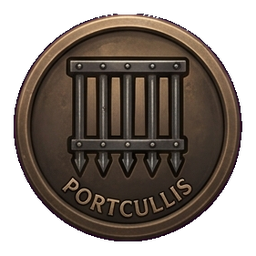
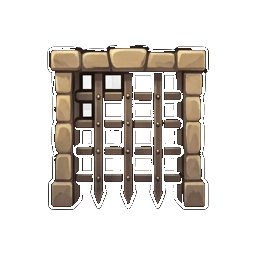
Refaz os ícones do minimapa (discretos, sem medalhão) + ícone de baú
- Fatia a nova folha de ícones em 16 marcadores discretos (sem o círculo/
  medalhão que deixava tudo ilegível) e sem os rótulos de texto: só o ícone,
  em fundo transparente.
- Adiciona o marcador "chest" (baú): a casa da Hedda passa a exibir um baú no
  mapa do vilarejo e no interior dela, indicando onde guardar itens.
- A escadaria vira o ícone do santuário e da saída em espiral; ícones um pouco
  maiores no mapa p/ compensar o recorte e ganhar legibilidade.

Claude-Session: https://claude.ai/code/session_013WvcxhCgG4YoQ53hJyUeUZ

diff --git a/grimhollow/src/game/controls.ts b/grimhollow/src/game/controls.ts
@@ -44,6 +44,8 @@ import mmPortal from "../assets/ui/minimap/mm_portal.png";
 import mmSanctuary from "../assets/ui/minimap/mm_sanctuary.png";
 import mmStatue from "../assets/ui/minimap/mm_statue.png";
 import mmSign from "../assets/ui/minimap/mm_sign.png";
+import mmChest from "../assets/ui/minimap/mm_chest.png";
+import mmStair from "../assets/ui/minimap/mm_stair.png";
 
 // ---- FORJA: efeitos sonoros (arquivos enviados pelo jogador) ----------------
 // Registrados no canal SFX do gerenciador de áudio (o volume efetivo respeita a
@@ -265,7 +267,7 @@ export interface TavernData {
 export type MiniPoiKind =
   | "smith" | "tavern" | "store" | "alchemist" | "npc"
   | "dungeon" | "forest" | "exit" | "home" | "well"
-  | "stair" | "gate" | "sanctuary" | "sign" | "portal" | "statue";
+  | "stair" | "gate" | "sanctuary" | "sign" | "portal" | "statue" | "chest";
 export interface MiniPoi { c: number; r: number; kind: MiniPoiKind; label: string; }
 
 export interface MinimapState {
@@ -284,7 +286,8 @@ export interface MinimapState {
 const POI_SRC: Record<MiniPoiKind, string> = {
   smith: mmSmith, tavern: mmTavern, store: mmStore, alchemist: mmAlchemist, npc: mmNpc,
   dungeon: mmEntrance, forest: mmForest, exit: mmExit, home: mmHome, well: mmWell,
-  stair: mmExit, gate: mmGate, sanctuary: mmSanctuary, sign: mmSign, portal: mmPortal, statue: mmStatue,
+  stair: mmStair, gate: mmGate, sanctuary: mmSanctuary, sign: mmSign, portal: mmPortal, statue: mmStatue,
+  chest: mmChest,
 };
 // pré-carrega os medalhões (uma vez) p/ desenhar no canvas
 const POI_IMG: Partial<Record<MiniPoiKind, HTMLImageElement>> = {};
@@ -295,9 +298,10 @@ const POI_COLOR: Record<MiniPoiKind, string> = {
   smith: "#ff9a4d", tavern: "#ffcf5a", store: "#6fd3ff", alchemist: "#b98cff", npc: "#8fe07a",
   dungeon: "#ff6b5a", forest: "#7fd06a", exit: "#ffd964", home: "#d8b06a", well: "#6fb8ff",
   stair: "#ffd964", gate: "#ff8a5a", sanctuary: "#c79bff", sign: "#e8dcc0", portal: "#8fb8ff", statue: "#f0e2b8",
+  chest: "#e6b45a",
 };
 // marcadores que "pulsam" (interativos: valem uma visita)
-const POI_PULSE = new Set<MiniPoiKind>(["smith", "tavern", "store", "alchemist", "dungeon", "forest", "exit", "gate", "sanctuary", "npc", "portal", "statue", "stair"]);
+const POI_PULSE = new Set<MiniPoiKind>(["smith", "tavern", "store", "alchemist", "dungeon", "forest", "exit", "gate", "sanctuary", "npc", "portal", "statue", "stair", "chest"]);
 // marcadores "menores" (secundários): NPCs e casas comuns
 const miniMinor = (k: MiniPoiKind) => k === "npc" || k === "home";
 
@@ -490,9 +494,11 @@ export function setupControls(
     poi: MiniPoi, phase: number, withLabel: boolean,
   ) => {
     const col = POI_COLOR[poi.kind] ?? "#e8dcc0";
-    // medalhão (arte própria). Se ainda não carregou, cai num disco simples.
+    // ícone discreto (arte própria, sem medalhão). Se ainda não carregou, cai
+    // num disco simples. Um pouco maior que o medalhão antigo p/ compensar o
+    // recorte transparente ao redor e ganhar legibilidade no minimapa.
     const img = POI_IMG[poi.kind];
-    const d = size * 1.16;
+    const d = size * 1.42;
     if (img && img.complete && img.naturalWidth > 0) {
       ctx.save();
       ctx.shadowColor = "rgba(0,0,0,.6)"; ctx.shadowBlur = size * 0.18; ctx.shadowOffsetY = size * 0.04;

diff --git a/grimhollow/src/game/Game.ts b/grimhollow/src/game/Game.ts
@@ -4619,8 +4619,10 @@ export class Game {
         const kind = e.kind === "store" ? "store" : e.kind === "tavern" ? "tavern" : e.kind === "alchemist" ? "alchemist" : "smith";
         pois.push({ c: e.c + e.dc, r: e.r + e.dr, kind, label: cap(ESTAB[e.kind].name) });
       }
-      // casas comuns: só o ícone, SEM rótulo "Casa" (evita poluição no mapa)
-      for (const h of HOME_DOORS) pois.push({ c: h.c + h.dc, r: h.r + h.dr, kind: "home", label: "" });
+      // casas comuns: só o ícone, SEM rótulo "Casa" (evita poluição no mapa).
+      // A casa da Hedda guarda o BAÚ — vira um marcador de baú p/ o jogador achar.
+      for (const h of HOME_DOORS)
+        pois.push({ c: h.c + h.dc, r: h.r + h.dr, kind: h.id === "hedda" ? "chest" : "home", label: h.id === "hedda" ? "Baú" : "" });
       pois.push({ c: WELL.c, r: WELL.r, kind: "well", label: "Poço" });
       // saídas: masmorra (escada) e floresta (trilha)
       for (let r = 0; r < ROWS; r++)
@@ -4656,6 +4658,8 @@ export class Game {
         ? ESTAB[this.location].npc.split(/[ ,]/)[0] : "Morador";
       pois.push({ c: n.col, r: n.row, kind: "npc", label: who });
       pois.push({ c: x.col, r: x.row, kind: "exit", label: "Sair" });
+      // o baú da Hedda aparece no mapa do interior dela
+      if (this.stashCell) pois.push({ c: this.stashCell.col, r: this.stashCell.row, kind: "chest", label: "Baú" });
     }
     return pois;
   }

diff --git a/grimhollow/scripts/slice_minimap.py b/grimhollow/scripts/slice_minimap.py
@@ -1,0 +1,120 @@
+#!/usr/bin/env python3
+"""Fatia a folha 4x4 de ícones do minimapa: recorta o rótulo de texto, remove o
+fundo xadrez (flood-fill a partir das bordas) e centraliza cada ícone num quadro
+256x256 transparente. SEM o texto embaixo — só o ícone."""
+from PIL import Image
+from collections import deque
+import os
+
+SRC = "/root/.claude/uploads/85135ce9-0400-5549-a42b-324f4764da02/ebfe2c4b-87230.png"
+OUT = "src/assets/ui/minimap"
+CELL = 256
+MARGIN = 9          # corta a linha preta da grade nas bordas da célula
+os.makedirs(OUT, exist_ok=True)
+
+# (linha, coluna) -> nome do arquivo de saída
+LAYOUT = [
+    [("chest", "CHEST"), ("smith", "ANVIL"), ("alchemist", "FLASKS"), ("store", "POUCH")],
+    [("tavern", "BEER"), ("home", "COTTAGE"), ("well", "WELL"), ("forest", "PINES")],
+    [("npc", "VILLAGER"), ("entrance", "ARCHWAY"), ("exit", "DOOR"), ("gate", "PORTCULLIS")],
+    [("portal", "PORTAL"), ("stair", "STAIRS"), ("statue", "STATUE"), ("sign", "SIGN")],
+]
+
+sheet = Image.open(SRC).convert("RGB")
+spx = sheet.load()
+
+def is_bg(p):
+    r, g, b = p
+    return min(p) > 188 and (max(p) - min(p)) < 32   # xadrez claro (cinza/branco)
+
+def is_gridblack(p):
+    return max(p) < 42
+
+def find_label_cut(cellpx):
+    """acha o topo da faixa do rótulo: 1ª janela de ~12 linhas quase-vazias
+    depois de y=165 (o vão entre o ícone e o texto)."""
+    ink = []
+    for y in range(CELL):
+        c = 0
+        for x in range(MARGIN, CELL - MARGIN):
+            p = cellpx[x, y]
+            if not is_bg(p) and not is_gridblack(p):
+                c += 1
+        ink.append(c)
+    for y in range(165, CELL - 12):
+        if all(ink[y + k] < 4 for k in range(12)):
+            return y
+    return 214  # fallback
+
+def slice_cell(cr, cc):
+    # extrai a célula como imagem RGBA própria
+    cell = Image.new("RGB", (CELL, CELL))
+    cell.paste(sheet.crop((cc * CELL, cr * CELL, cc * CELL + CELL, cr * CELL + CELL)), (0, 0))
+    cpx = cell.load()
+    cut = find_label_cut(cpx)
+    img = cell.convert("RGBA")
+    px = img.load()
+    W = H = CELL
+    # 1) zera (transparente) a faixa do rótulo e as bordas da grade
+    for y in range(H):
+        for x in range(W):
+            if y >= cut or x < MARGIN or x >= W - MARGIN or y < MARGIN:
+                px[x, y] = (0, 0, 0, 0)
+    # 2) flood-fill do fundo xadrez a partir das bordas -> transparente
+    seen = [[False] * W for _ in range(H)]
+    dq = deque()
+    for x in range(W):
+        for y in (MARGIN, cut - 1):
+            if 0 <= y < H:
+                dq.append((x, y))
+    for y in range(H):
+        for x in (MARGIN, W - MARGIN - 1):
+            dq.append((x, y))
+    while dq:
+        x, y = dq.popleft()
+        if x < 0 or y < 0 or x >= W or y >= H or seen[y][x]:
+            continue
+        seen[y][x] = True
+        p = px[x, y]
+        if p[3] == 0 or is_bg(p[:3]) or is_gridblack(p[:3]):
+            px[x, y] = (0, 0, 0, 0)
+            dq.extend([(x + 1, y), (x - 1, y), (x, y + 1), (x, y - 1)])
+    # 3) suaviza a franja: pixels de borda muito claros viram semitransparentes
+    for y in range(1, H - 1):
+        for x in range(1, W - 1):
+            p = px[x, y]
+            if p[3] == 0:
+                continue
+            if is_bg(p[:3]):
+                # pixel claro ainda opaco encostado no transparente -> alpha parcial
+                if any(px[x + dx, y + dy][3] == 0 for dx, dy in ((1, 0), (-1, 0), (0, 1), (0, -1))):
+                    px[x, y] = (p[0], p[1], p[2], 90)
+    # 4) recorta a bounding box do conteúdo e centraliza em 256x256
+    bbox = img.getbbox()
+    if bbox:
+        icon = img.crop(bbox)
+        # escala p/ caber em ~224px mantendo proporção
+        maxside = 224
+        w, h = icon.size
+        s = min(maxside / w, maxside / h, 1.0)
+        if s < 1.0:
+            icon = icon.resize((max(1, int(w * s)), max(1, int(h * s))), Image.LANCZOS)
+        out = Image.new("RGBA", (CELL, CELL), (0, 0, 0, 0))
+        ox = (CELL - icon.size[0]) // 2
+        oy = (CELL - icon.size[1]) // 2
+        out.paste(icon, (ox, oy), icon)
+    else:
+        out = img
+    return out
+
+for cr in range(4):
+    for cc in range(4):
+        name, _label = LAYOUT[cr][cc]
+        out = slice_cell(cr, cc)
+        path = os.path.join(OUT, f"mm_{name}.png")
+        out.save(path)
+        print("ok", path, out.size)
+
+# sanctuary reaproveita a escadaria (subir a escadaria = mesma arte)
+Image.open(os.path.join(OUT, "mm_stair.png")).save(os.path.join(OUT, "mm_sanctuary.png"))
+print("ok mm_sanctuary.png (= escadaria)")
